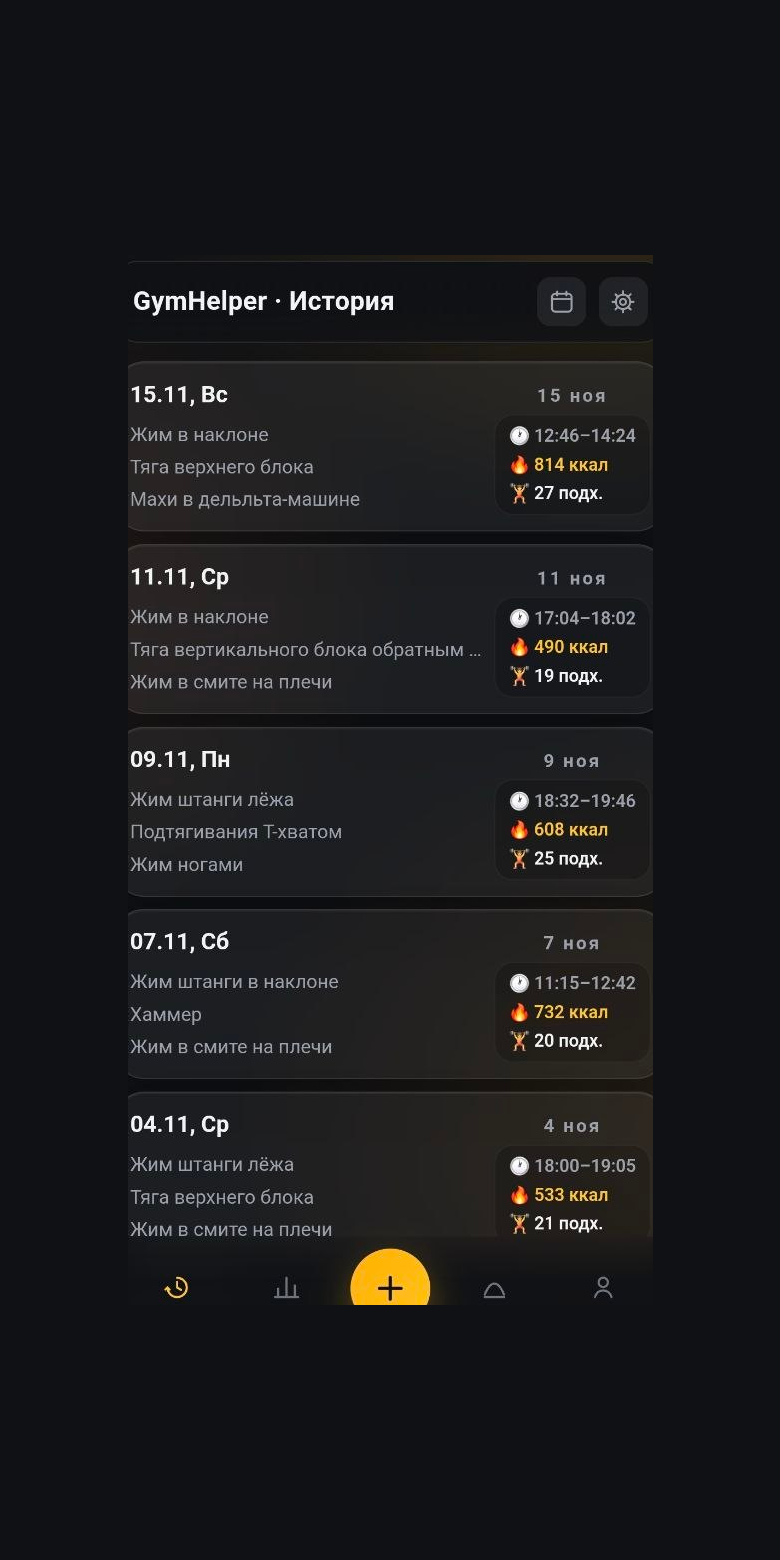
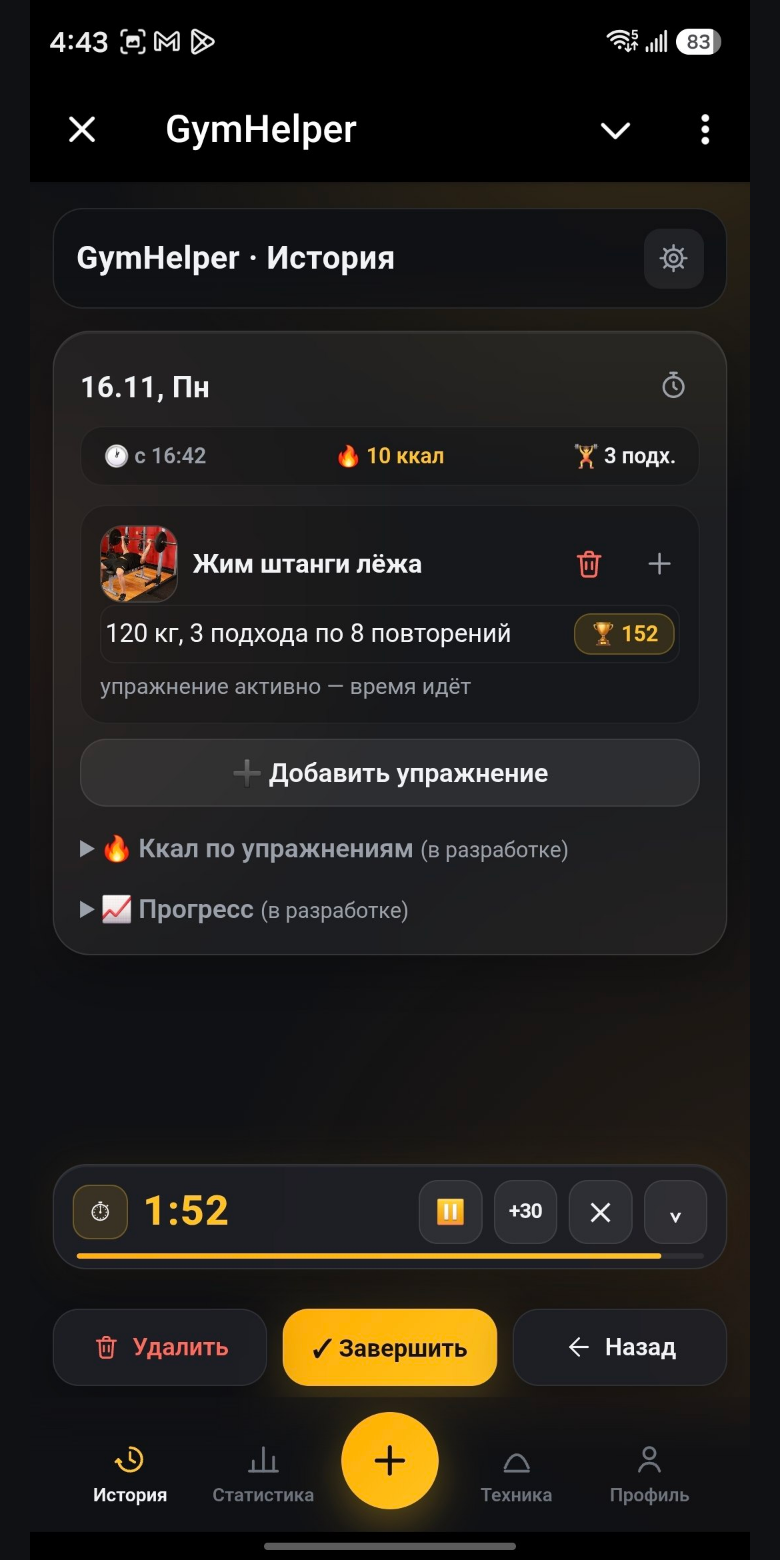
fix(cnt-t1): third frame = same phone shot as hero, caption updated

diff --git a/web/landing/index.html b/web/landing/index.html
@@ -397,7 +397,7 @@ body.lp {
                         <div class="frame">
                             <img src="assets/shots/chat.png" alt="Чат с ботом GymHelper: пошаговый ввод подхода — вес, подходы, повторения" width="390" height="780" loading="lazy" decoding="async">
                         </div>
-                        <figcaption>Пошаговый ввод подхода: вес → подходы → повторения</figcaption>
+                        <figcaption>Активная тренировка с таймером — прямо в Истории</figcaption>
                     </figure>
                 </div>
             </div>
